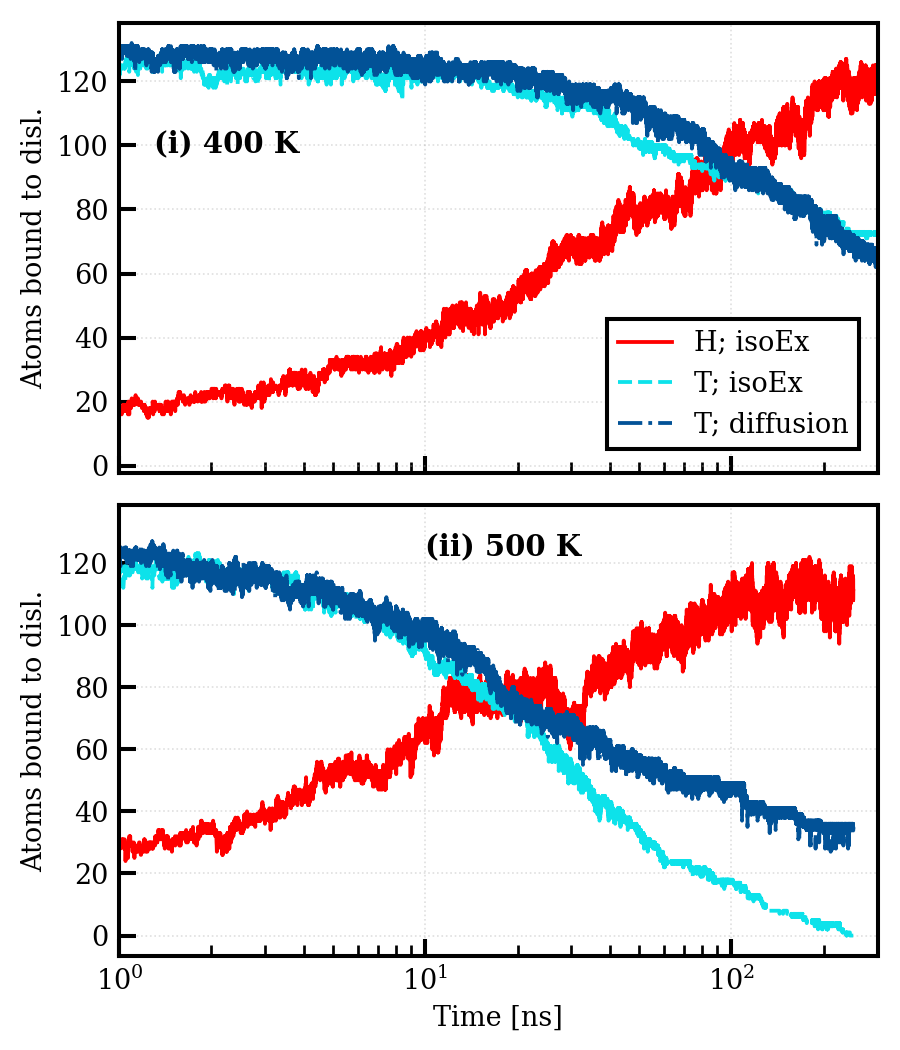
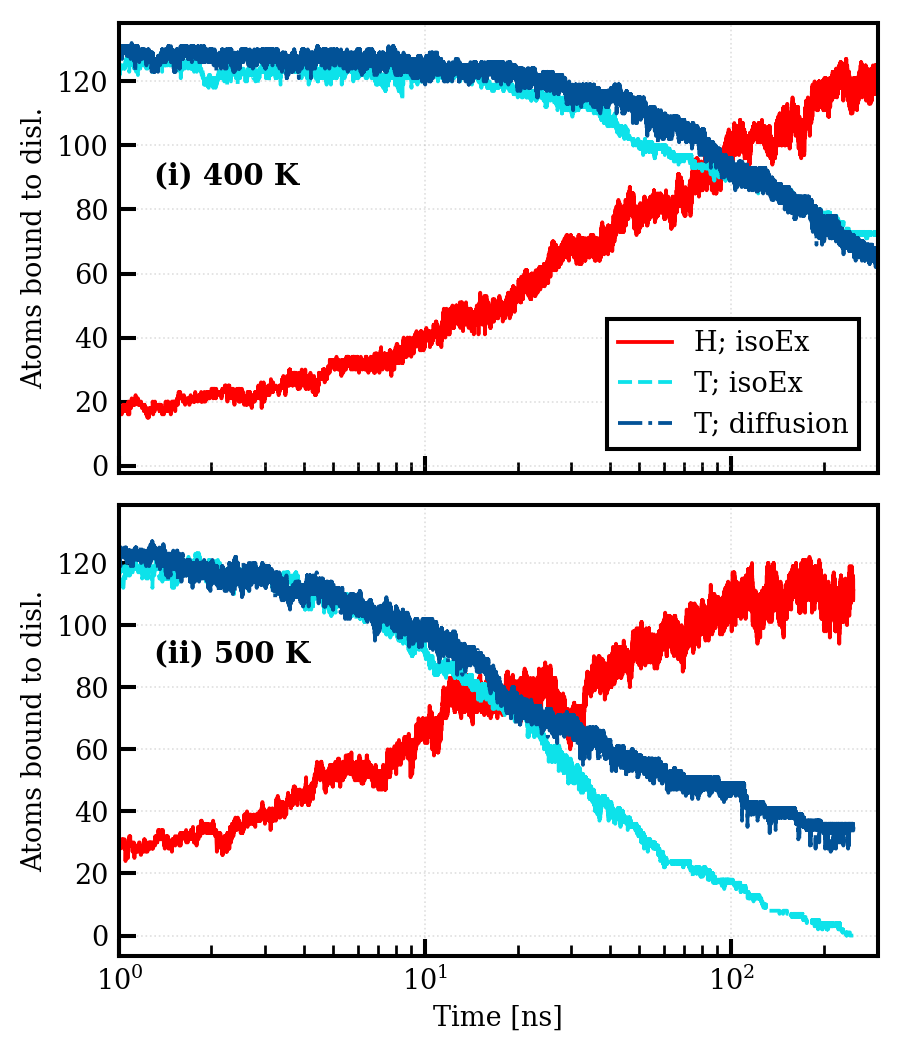
fix data utils

Changed region(s): [[0.1556, 0.1219, 0.3422, 0.1829], [0.4667, 0.4876, 0.6533, 0.5486], [0.1556, 0.6095, 0.3422, 0.64]]

diff --git a/plotting-scripts/plot_disloc_isoEx_comp.py b/plotting-scripts/plot_disloc_isoEx_comp.py
@@ -6,6 +6,8 @@ from dataUtils import readData
 
 # ============================== READ DATA ==============================
 
+path += 'disloc_isoEx_results/'
+
 # HinVac.out format: Timestep NTinVac NHinVac NTinCell
 tTH_isoEx_400K = readData(path+'disloc_isoEx_400K_300ns/HinDisl.out', [0,1,2])
 tT_diff_400K = readData(path+'disloc_isoEx_400K_0H_300ns/HinDisl.out', [0,1])
@@ -87,7 +89,7 @@ plotter(tTH_isoEx_400K[init:final:step, 0], tTH_isoEx_400K[init:final:step, 1], 
 plotter(tT_diff_400K[:, 0], tT_diff_400K[:, 1], isoEx_style['T_diff'], isoEx_labels['T_diff'])
 plt.xlim((1, xulim))
 plt.ylabel(ylbl)
-plt.text(1.3, 98, '(i) 400 K', font)
+plt.text(1.3, 88, '(i) 400 K', font)
 leg = plt.legend(loc='lower right', bbox_to_anchor=(0.99, 0.03))
 leg.get_frame().set_linewidth(1.5*pltm)  # Legend bow linewidth
 plt.gca().axes.get_xaxis().set_ticklabels([]) # Hide x-axis tick labels
@@ -101,7 +103,7 @@ plotter(tT_diff_500K[:, 0], tT_diff_500K[:, 1], isoEx_style['T_diff'], isoEx_lab
 plt.xlim((1, xulim))
 plt.xlabel(xlbl)
 plt.ylabel(ylbl)
-plt.text(1.3, 98, '(ii) 500 K', font)
+plt.text(1.3, 88, '(ii) 500 K', font)
 #plt.gca().axes.get_xaxis().set_ticklabels([]) # Hide x-axis tick labels
 
 # Show & save figure

diff --git a/plotting-scripts/plot_1Vac_isoEx_comp.py b/plotting-scripts/plot_1Vac_isoEx_comp.py
@@ -6,6 +6,8 @@ from dataUtils import readData
 
 # ============================== READ DATA ==============================
 
+path += '1Vac_isoEx_results/'
+
 # HinVac.out format: Timestep NTinVac NHinVac NTinCell
 tTH_isoEx_400K = readData(path+'1Vac_2000W_20H_6T_400K_3100ns/HinVac.out', [0,1,2])
 tTH_isoEx_450K = readData(path+'1Vac_2000W_20H_6T_450K_1200ns/HinVac.out', [0,1,2])

diff --git a/plotting-scripts/plot_GB_isoEx_comp.py b/plotting-scripts/plot_GB_isoEx_comp.py
@@ -6,6 +6,8 @@ from dataUtils import readData
 
 # ============================== READ DATA ==============================
 
+path += 'GB_3000W_isoEx_results/'
+
 # HinVac.out format: Timestep NTinVac NHinVac NTinCell
 tTH_isoEx_400K = readData(path+'yGB_3000W_100H_73T_400K_200ns/HinGB.out', [0,1,2])
 tT_diff_400K = readData(path+'yGB_3000W_0H_73T_400K_250ns/HinGB.out', [0,1])

diff --git a/plotting-scripts/plot_2Vac_isoEx_comp.py b/plotting-scripts/plot_2Vac_isoEx_comp.py
@@ -6,6 +6,8 @@ from dataUtils import readData
 
 # ============================== READ DATA ==============================
 
+path += '2Vac_isoEx_results/'
+
 # HinVac.out format: Timestep NTinVac NHinVac NTinCell
 tTH_isoEx = readData(path+'2Vac_2000W_20H_10T_500K_1000ns/HinVac.out', [0,1,2])
 tTH_diff  = readData(path+'2Vac_2000W_0H_10T_500K_1000ns/HinVac.out', [0,1,2])

diff --git a/plotting-scripts/dataUtils.py b/plotting-scripts/dataUtils.py
@@ -1,5 +1,7 @@
+import numpy as np
 
-dataRootPath = '/home/otto/Drive2/isoEx_NVT/1Vac_isoEx_results/'
+
+dataRootPath = '/home/otto/Drive2/isoEx_NVT/'
 
 # Function for reading columnsToRead=[i,j,...] columns from file 'fname'
 def readData(fname, columnsToRead):
